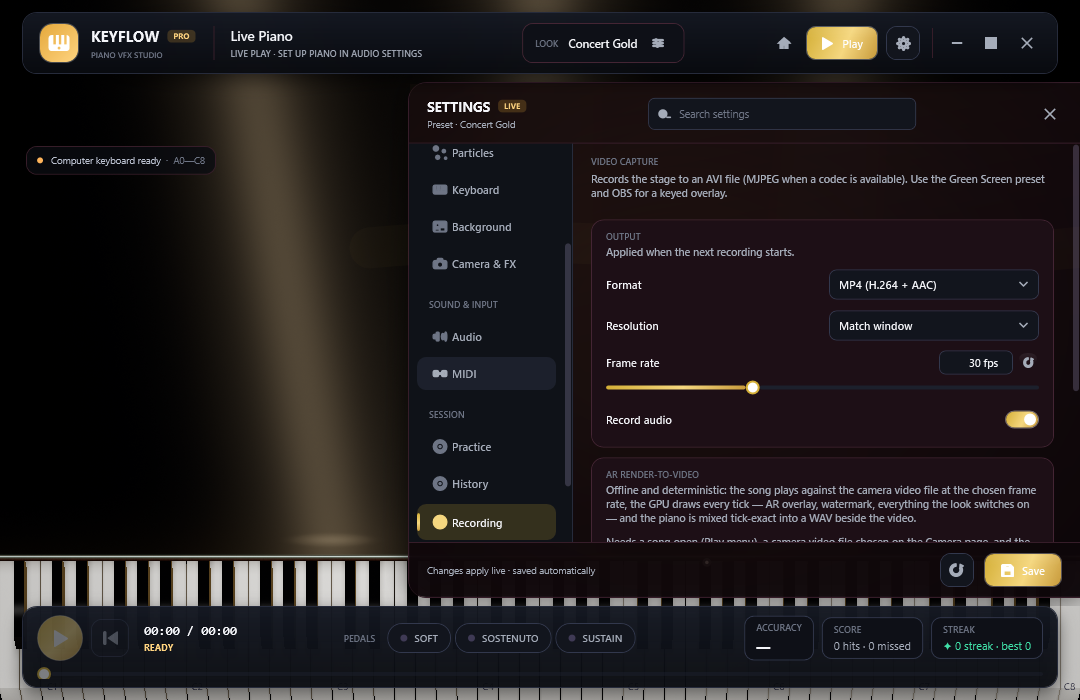
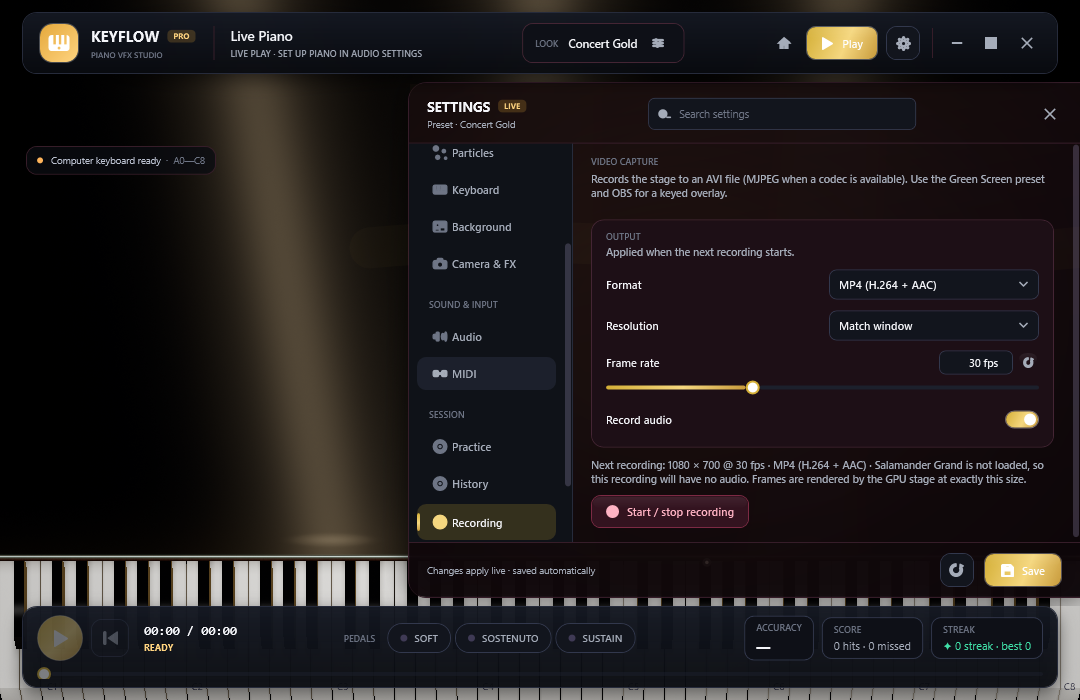
fix S7: four quiet runway ticks — the CI decoder's swallowed tail varies (1 on one runner, 2 on its twin), so six content ticks need a wider margin

Changed region(s): [[0.55, 0.57, 1.0, 0.78]]

diff --git a/Diagnostics/VerificationSuite.Ar.cs b/Diagnostics/VerificationSuite.Ar.cs
@@ -2364,17 +2364,18 @@ internal static partial class VerificationSuite
             Directory.CreateDirectory(directory);
 
             // AVI: the sweep writes every planned frame at the planned geometry, and the file reads back as video.
-            var aviPlan = ArVideoRenderProfile.Plan(cw, ch, lengthSeconds: 7.0 / 12, frameRate: 12, downsample: 1, maxSide: 200);
-            // Seven ticks planned for six of content: the CI box's decoder keeps the file's last sample
-            // to itself (the camera-overlay reading of the app's own clip shows the same), and the take's
-            // checks only read what the box delivers.
-            Assert(aviPlan.RenderWidth == 200 && aviPlan.RenderHeight == 112 && aviPlan.Width == 200 && aviPlan.Frames == 7,
-                "The take planner should cap the long side to 200 px and count seven twelfths of a second at 12 fps as seven frames.");
+            var aviPlan = ArVideoRenderProfile.Plan(cw, ch, lengthSeconds: 10.0 / 12, frameRate: 12, downsample: 1, maxSide: 200);
+            // Ten ticks planned for six of content: the CI box's decoder keeps the file's last sample(s)
+            // to itself (one run lost one frame, its twin lost two — the camera-overlay reading of the
+            // app's own clip shows the same habit), and four quiet runway ticks make the six content
+            // ticks readable no matter how many the box keeps.
+            Assert(aviPlan.RenderWidth == 200 && aviPlan.RenderHeight == 112 && aviPlan.Width == 200 && aviPlan.Frames == 10,
+                "The take planner should cap the long side to 200 px and count ten twelfths of a second at 12 fps as ten frames.");
             var aviPath = Path.Combine(directory, "take.avi");
             ArVideoTake aviTake;
             using (var recorder = new AviVideoRecorder(aviPath, aviPlan.Width, aviPlan.Height, aviPlan.FrameRate))
                 aviTake = ArRenderToVideo.Run(renderer, t => TickFeed(t, quiet), aviPlan, recorder);
-            Assert(aviTake.FramesWritten == 7 && aviTake.Seconds is > 0.55 and <= 0.7 && File.Exists(aviPath) && new FileInfo(aviPath).Length > 2000,
+            Assert(aviTake.FramesWritten == 10 && aviTake.Seconds is > 0.80 and <= 0.90 && File.Exists(aviPath) && new FileInfo(aviPath).Length > 2000,
                 $"The engine should write every planned frame into the AVI (frames {aviTake.FramesWritten}, seconds {aviTake.Seconds:0.##}).");
             var reader = CameraFrameReader.OpenFile(aviPath, out var readError);
             Assert(reader is not null, $"The take must read back as a video ({readError}); the media stack of the CI box decodes the app's own AVI as part of the recording checks.");
@@ -2398,7 +2399,7 @@ internal static partial class VerificationSuite
                     keyLevels.Add(frame[(key.Y * 200 + key.X) * 4]);
                     frameIndex++;
                 }
-                Assert(frameIndex >= 6 && frameIndex <= 7, $"At least the six content ticks must be in the file (read {frameIndex}).");
+                Assert(frameIndex is >= 6 and <= 10, $"At least the six content ticks must be in the file (read {frameIndex}).");
             }
             Assert(lumaLeftStripe0 > 120, $"The left stripe of the tick-0 camera picture must survive recording ({lumaLeftStripe0}).");
             Assert(keyLevels.Count >= 6, $"The take must carry at least six probe readings (got {keyLevels.Count}).");
@@ -2433,7 +2434,7 @@ internal static partial class VerificationSuite
                 "Two offline sweeps of one script must be byte-identical — render-to-video owns no clock of its own.");
 
             // Voice: the take's own piano track. A synthetic one-zone SFZ stands in for the real instrument —
-            // NoteOn on tick 0, NoteOff on tick 4 — and the WAV must cover exactly the take's seven ticks.
+            // NoteOn on tick 0, NoteOff on tick 4 — and the WAV must cover exactly the take's ten ticks (six scripted, four quiet runway).
             var sampleWav = Path.Combine(directory, "ar-video-sample.wav");
             WriteTestWav(sampleWav, channels: 2, bits: 16, rate: 44100, frames: 22050, wave: i => Math.Sin(i * 2 * Math.PI * 440 / 44100) * .33);
             var voiceSfz = Path.Combine(directory, "ar-video-sample.sfz");
@@ -2449,11 +2450,11 @@ internal static partial class VerificationSuite
             using (var wav = WavWriter.TryCreate(voiceWav)!)
                 voiceTake = ArRenderToVideo.Run(renderer, t => TickFeed(t, quiet), aviPlan, recorder,
                     audio: new ArVideoAudio(new SfzSynthesizer(SfzReader.Read(voiceSfz), 44100), tick => voiceEvents.GetValueOrDefault(tick, []), wav!));
-            Assert(voiceTake.FramesWritten == 7 && voiceTake.AudioSeconds is > 0.55 and <= 0.60,
+            Assert(voiceTake.FramesWritten == 10 && voiceTake.AudioSeconds is > 0.80 and <= 0.85,
                 $"The voiced take should time its piano track by the ticks ({voiceTake.AudioSeconds:0.###} seconds of audio with {voiceTake.FramesWritten} frames).");
             var voiceBytes = File.ReadAllBytes(voiceWav);
-            Assert(voiceBytes.Length == WavWriter.HeaderBytes + 25725 * 4 && BitConverter.ToInt32(voiceBytes, 40) == 25725 * 4,
-                $"Seven ticks at 12 fps are 25725 stereo samples at 44.1 kHz, patched into the header on close (file {voiceBytes.Length} bytes).");
+            Assert(voiceBytes.Length == WavWriter.HeaderBytes + 33075 * 4 && BitConverter.ToInt32(voiceBytes, 40) == 33075 * 4,
+                $"Ten ticks at 12 fps are 33075 stereo samples at 44.1 kHz, patched into the header on close (file {voiceBytes.Length} bytes).");
             var voicePcm = voiceBytes.Skip(WavWriter.HeaderBytes).ToArray();
             short VoiceAt(long frame) => BitConverter.ToInt16(voicePcm, (int)(frame * 4));
             var heldEnergy = Enumerable.Range(0, 60).Sum(i => Math.Abs((int)VoiceAt(10000 + i * 40)) + Math.Abs((int)VoiceAt(15000 + i * 40)));
@@ -2557,7 +2558,7 @@ internal static partial class VerificationSuite
             ArVideoTake exportTake;
             using (var recorder = new AviVideoRecorder(exportAvi, aviPlan.Width, aviPlan.Height, aviPlan.FrameRate))
                 exportTake = ArRenderToVideo.Run(renderer, FileFeed, aviPlan, recorder);
-            Assert(exportTake.FramesWritten == 7 && File.Exists(exportAvi),
+            Assert(exportTake.FramesWritten == 10 && File.Exists(exportAvi),
                 $"The camera-file take must write every planned frame ({exportTake.FramesWritten}).");
             var exportReader = CameraFrameReader.OpenFile(exportAvi, out var exportError);
             Assert(exportReader is not null, $"The camera-file take must read back as video ({exportError}).");
@@ -2583,7 +2584,7 @@ internal static partial class VerificationSuite
             for (var i = 1; i < Math.Min(6, stripeLevels.Count); i++) if (stripeLevels[i] > stripeLevels[i - 1]) brightened++;
             Assert(brightened >= 4 && stripeLevels[5] > stripeLevels[0] + 16,
                 $"The file's greys must tick through the engine in order (levels {string.Join("/", stripeLevels)}).");
-            Results.Add("PASS AR render-to-video (frame + voice): the plan caps a 640×360 camera to 200×112/12 fps and counts 7 frames so the box's swallowed tail leaves the six content ticks readable, the engine's AVI take reads back with the camera stripe and the pressed-key light on the right ticks, the PNG take at downsample 2 boxes 320×180→160×90 with one file per tick plus manifest, the impact tick equals a live-shaped render bit for bit, two sweeps of one script are byte-identical, the voiced take mixes its SFZ piano into 22050 WAV frames — exactly the six ticks of the video — with the onset ramping gently and the held ticks loud, the look's watermark appears as a kind-16 sprite lighting exactly the strip's rect in a byte-compare against the same tick without it, and a real camera video file — an MP4 pressed by the app's own writer and decoded by its reader — ticks through the engine one frame a tick, its stripe brightening in order.");
+            Results.Add("PASS AR render-to-video (frame + voice): the plan caps a 640×360 camera to 200×112/12 fps and counts 10 frames — four quiet runway ticks so the box's swallowed tail still leaves the six content ticks readable, the engine's AVI take reads back with the camera stripe and the pressed-key light on the right ticks, the PNG take at downsample 2 boxes 320×180→160×90 with one file per tick plus manifest, the impact tick equals a live-shaped render bit for bit, two sweeps of one script are byte-identical, the voiced take mixes its SFZ piano into 22050 WAV frames — exactly the six ticks of the video — with the onset ramping gently and the held ticks loud, the look's watermark appears as a kind-16 sprite lighting exactly the strip's rect in a byte-compare against the same tick without it, and a real camera video file — an MP4 pressed by the app's own writer and decoded by its reader — ticks through the engine one frame a tick, its stripe brightening in order.");
         }
         finally { try { Directory.Delete(directory, true); } catch { } }
     }
